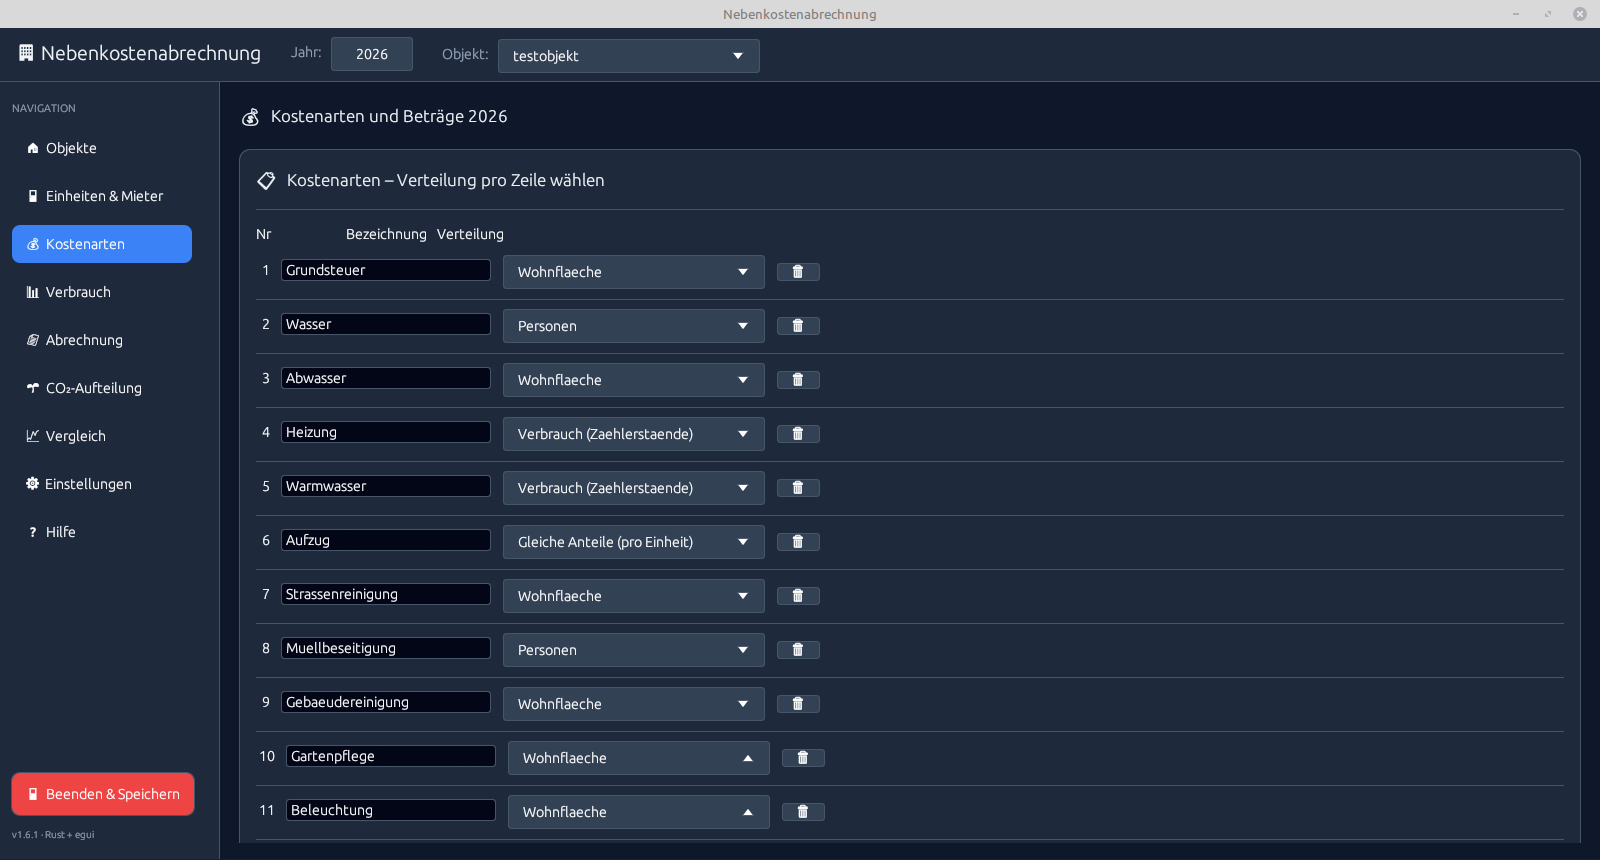
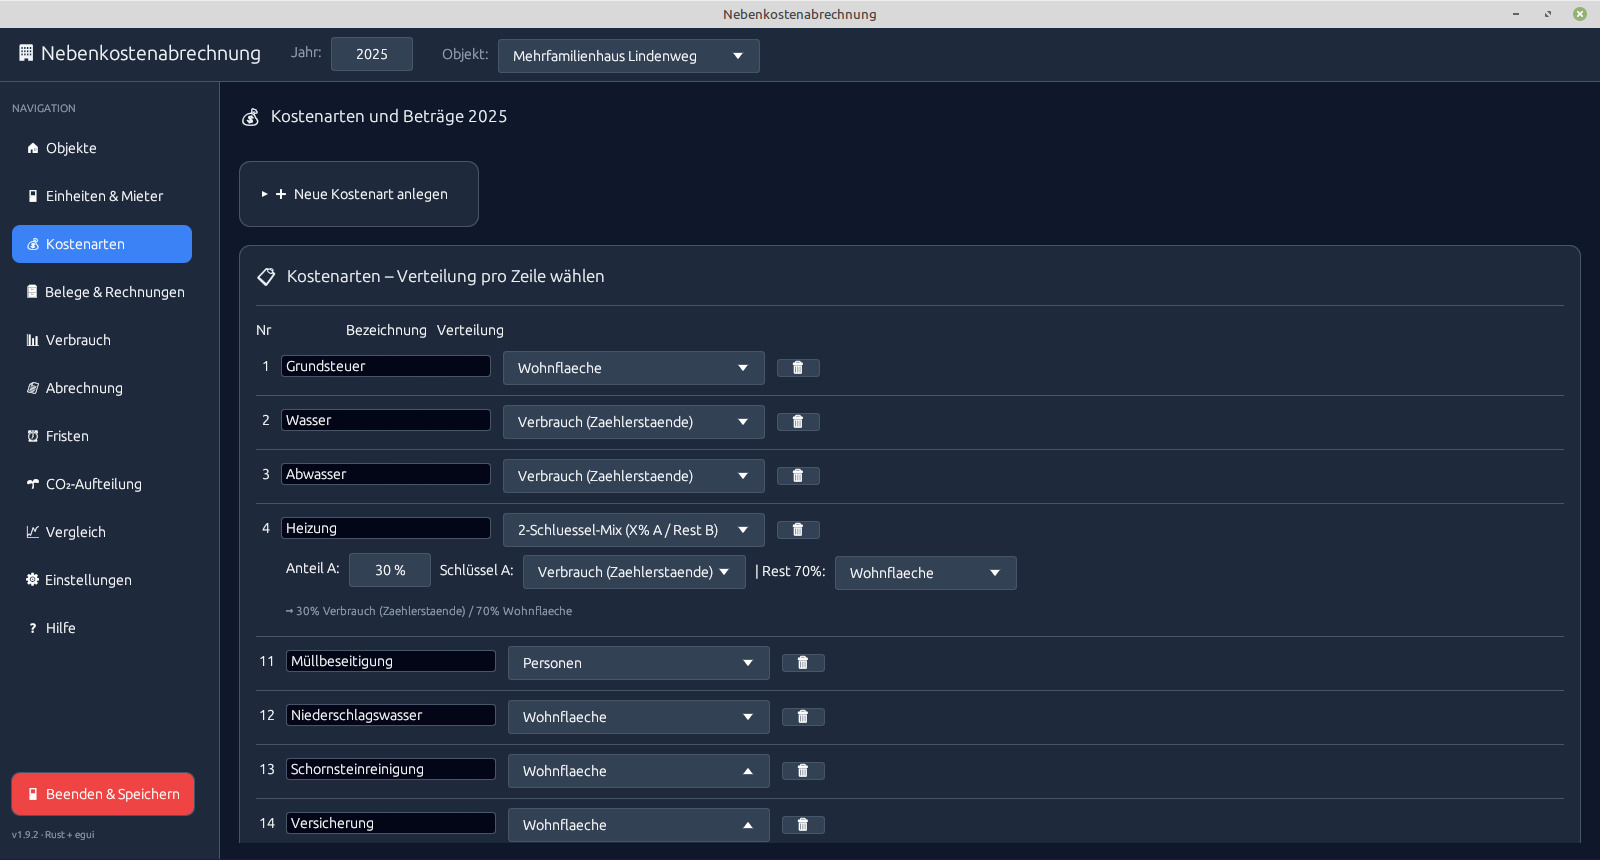
Version 1.9.2: Downloads, Screenshots und Funktionsliste aktualisiert
- Versionsstand 1.6.1 -> 1.9.2 (Hero, Tabelle, Footer)
- Download-Links: Windows auf /releases/latest, Linux auf Tag 1.9.2
- Screenshots der Rust-App durch Aufnahmen der 1.9.2 ersetzt
- Funktionsliste um Fristen-Manager, Abschluss-Checkliste und
  Vorauszahlungs-Schreiben ergänzt

diff --git a/index.html b/index.html
@@ -172,7 +172,7 @@
         <div class="body">
           <h3>Nebenkostenabrechnung <span class="tag new">aktuell</span></h3>
           <div class="meta">
-            <span>Version 1.6.1</span><span>·</span><span>native Rust-App</span><span>·</span><span>neu, schlank</span>
+            <span>Version 1.9.2</span><span>·</span><span>native Rust-App</span><span>·</span><span>neu, schlank</span>
           </div>
           <ul>
             <li>CO₂-Aufteilung nach CO2KostAufG inkl. 19 % MwSt.</li>
@@ -180,15 +180,17 @@
             <li><strong>Zählerwechsel</strong> im laufenden Jahr, Verbrauch wird summiert</li>
             <li>Mieterwechsel, Leerstand, Rundungsausgleich, Vorauszahlungs-Vorschläge</li>
             <li>PDF-Anschreiben, CSV-Export, Jahres-ZIP-Archiv, Vermieter-Journal</li>
+            <li><strong>Fristen-Manager</strong> mit Erinnerung (§ 556 BGB)</li>
+            <li><strong>Abschluss-Checkliste</strong> mit Prüfprotokoll, Vorauszahlungs-Schreiben</li>
           </ul>
           <div class="dl">
             <div class="dlrow">
-              <span><span class="os">Windows</span> <span class="sz">· portable EXE · 11,3 MB</span></span>
-              <a href="https://github.com/K-Eckstein/nebenkosten-abrechnung-in-rust/releases/download/1.6.1/Nebenkostenabrechnung-Portable.exe">Herunterladen</a>
+              <span><span class="os">Windows</span> <span class="sz">· portable EXE · 11,4 MB</span></span>
+              <a href="https://github.com/K-Eckstein/nebenkosten-abrechnung-in-rust/releases/latest/download/Nebenkostenabrechnung-Portable.exe">Herunterladen</a>
             </div>
             <div class="dlrow">
-              <span><span class="os">Linux</span> <span class="sz">· AppImage · 8,6 MB</span></span>
-              <a href="https://github.com/K-Eckstein/nebenkosten-abrechnung-in-rust/releases/download/1.6.1/Nebenkostenabrechnung-1.6.1.AppImage">Herunterladen</a>
+              <span><span class="os">Linux</span> <span class="sz">· AppImage · 8,5 MB</span></span>
+              <a href="https://github.com/K-Eckstein/nebenkosten-abrechnung-in-rust/releases/download/1.9.2/Nebenkostenabrechnung-1.9.2.AppImage">Herunterladen</a>
             </div>
             <a class="btn ghost" href="https://github.com/K-Eckstein/nebenkosten-abrechnung-in-rust">Zum Repository &amp; Anleitung</a>
           </div>
@@ -237,8 +239,8 @@
         </thead>
         <tbody>
           <tr><td>Technik</td><td>nativ in Rust</td><td>HTML/TypeScript, Electron</td></tr>
-          <tr><td>Aktuelle Version</td><td>1.6.1</td><td>1.3</td></tr>
-          <tr><td>Download</td><td>8,6 MB / 11,3 MB</td><td>146 MB / 117 MB</td></tr>
+          <tr><td>Aktuelle Version</td><td>1.9.2</td><td>1.3</td></tr>
+          <tr><td>Download</td><td>8,5 MB / 11,4 MB</td><td>146 MB / 117 MB</td></tr>
           <tr><td>Windows &amp; Linux</td><td>portable EXE, AppImage</td><td>portable EXE, AppImage</td></tr>
           <tr><td>CO₂ nach CO2KostAufG</td><td>✔ inkl. 19 % MwSt.</td><td>✔ Stufenmodell</td></tr>
           <tr><td>HeizkostenV-Schlüssel</td><td>✔ 2-Schlüssel-Mix</td><td>✔ 50/50–70/30</td></tr>
@@ -250,14 +252,14 @@
       </table>
     </div>
     <p class="sub" style="margin-top:14px; font-size:13.6px;">
-      Stand: Version 1.6.1 (Rust) und 1.3 (Web-/Desktop). Beide Programme sind eigenständig – deine Daten wandern nicht automatisch von einer Version in die andere.
+      Stand: Version 1.9.2 (Rust) und 1.3 (Web-/Desktop). Beide Programme sind eigenständig – deine Daten wandern nicht automatisch von einer Version in die andere.
     </p>
   </section>
 
   <section id="screenshots">
     <h2>Screenshots aus der Rust-App</h2>
     <p class="sub">Objekte, Einheiten, Kostenverteilung, Verbrauch, Abrechnung und Jahresvergleich. Klick auf ein Bild zum Vergrößern.<br>
-      <span style="font-size:13.4px">Alle Aufnahmen mit der aktuellen Version 1.6.1 – inklusive Zählerwechsel und einer vollständig berechneten Beispielabrechnung.</span></p>
+      <span style="font-size:13.4px">Alle Aufnahmen mit der aktuellen Version 1.9.2 – inklusive Fristen-Manager, Abschluss-Checkliste und einer vollständig berechneten Beispielabrechnung.</span></p>
     <div class="gallery">
       <figure><a href="assets/shot-1.png" target="_blank" rel="noopener"><img src="assets/shot-1.png" alt="Objekte und Vermieter verwalten" loading="lazy"></a><figcaption>1 · Objekte &amp; Vermieter</figcaption></figure>
       <figure><a href="assets/shot-2.png" target="_blank" rel="noopener"><img src="assets/shot-2.png" alt="Wohneinheiten und Mieter" loading="lazy"></a><figcaption>2 · Einheiten &amp; Mieter</figcaption></figure>
@@ -306,7 +308,7 @@
 
 <footer class="site">
   <div class="wrap">
-    <span>Nebenkostenabrechnung · Freeware für private Vermieter · Stand Version 1.6.1 / 1.3<span id="gcvc"></span></span>
+    <span>Nebenkostenabrechnung · Freeware für private Vermieter · Stand Version 1.9.2 / 1.3<span id="gcvc"></span></span>
     <span>
       <a href="https://github.com/K-Eckstein/nebenkosten-abrechnung-in-rust">Rust-App</a> ·
       <a href="https://github.com/K-Eckstein/Nebenkostenabrechnung-">Web-/Desktop-Version</a> ·
